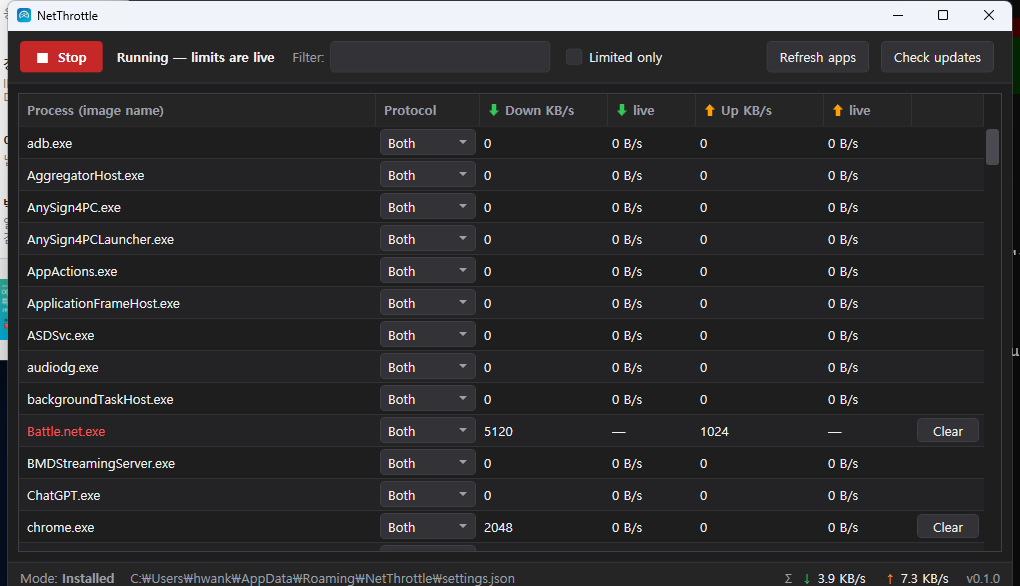
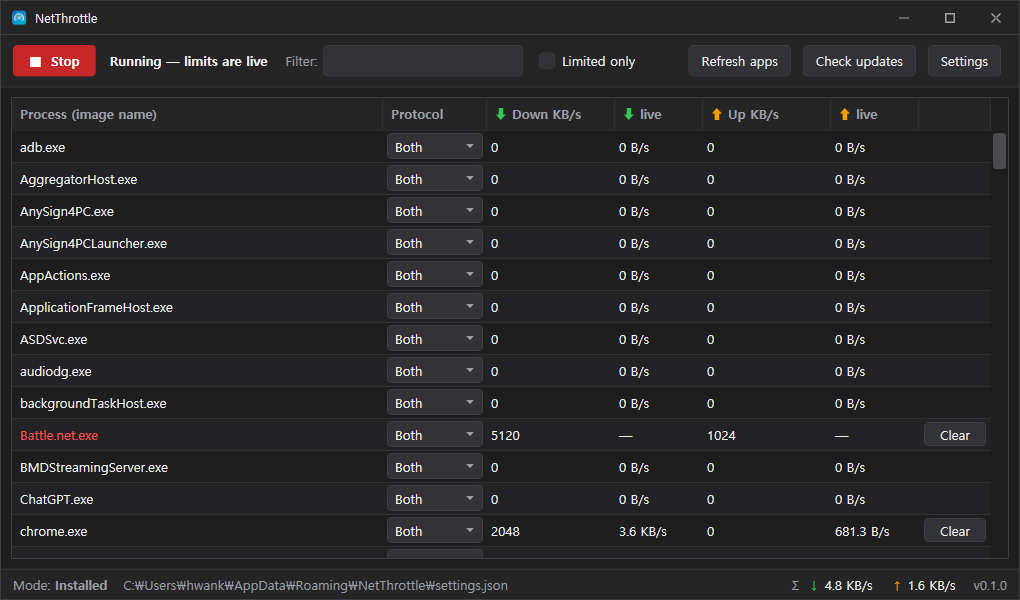
Refresh README screenshot; flush context-menu separators
- Context-menu separators span the full width (no left gap), since the menu
  has no icon/check column.
- Update the README hero screenshot to show the new dark title bar.

diff --git a/src/NetThrottle.App/Themes/DarkTheme.xaml b/src/NetThrottle.App/Themes/DarkTheme.xaml
@@ -226,7 +226,7 @@
     </Style>
 
     <Style TargetType="Separator">
-        <Setter Property="Margin" Value="8,4" />
+        <Setter Property="Margin" Value="0,4" />
         <Setter Property="Focusable" Value="False" />
         <Setter Property="Template">
             <Setter.Value>